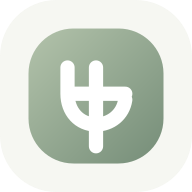
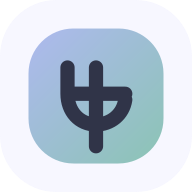
style: align PWA and Android with pastel brand

diff --git a/mobile-shell/index.html b/mobile-shell/index.html
@@ -3,7 +3,7 @@
   <head>
     <meta charset="UTF-8" />
     <meta name="viewport" content="width=device-width, initial-scale=1, viewport-fit=cover" />
-    <meta name="theme-color" content="#f4f1ed" />
+    <meta name="theme-color" content="#f7f7ff" />
     <title>همراه آفلاین</title>
     <style>
       @font-face {
@@ -16,21 +16,21 @@
       :root {
         color-scheme: light dark;
         font-family: Vazirmatn, Tahoma, sans-serif;
-        --bg: #f4f1ed;
-        --surface: #fffdfa;
-        --surface-soft: #f8f5f1;
-        --text: #27312b;
-        --muted: #657168;
-        --border: #dbe2db;
-        --primary: #607563;
-        --primary-soft: #deeadf;
-        --urgent: #a6535a;
-        --urgent-soft: #f5dfe1;
-        --important: #8a642f;
-        --important-soft: #f4e8d3;
-        --normal: #526b82;
-        --normal-soft: #e0eaf2;
-        --shadow: 0 18px 55px rgba(48, 63, 52, 0.1);
+        --bg: #f7f7ff;
+        --surface: #ffffff;
+        --surface-soft: #f8f8ff;
+        --text: #303448;
+        --muted: #687086;
+        --border: #e1e4f1;
+        --primary: #5c70b4;
+        --primary-soft: #ecefff;
+        --urgent: #a75567;
+        --urgent-soft: #ffe7ed;
+        --important: #816826;
+        --important-soft: #fff3cd;
+        --normal: #54718c;
+        --normal-soft: #e9f5ff;
+        --shadow: 0 20px 58px rgba(79, 85, 127, 0.12);
       }
 
       * { box-sizing: border-box; }
@@ -83,16 +83,16 @@
 
       @media (prefers-color-scheme: dark) {
         :root {
-          --bg: #141a16;
-          --surface: #1d2520;
-          --surface-soft: #232d27;
-          --text: #edf2ed;
-          --muted: #aebbb2;
-          --border: #38433b;
-          --primary: #a9c0ad;
-          --primary-soft: #2c3b30;
-          --urgent: #f2b3b8;
-          --urgent-soft: #4a2b30;
+          --bg: #13151f;
+          --surface: #1c1e2a;
+          --surface-soft: #242735;
+          --text: #eff0f8;
+          --muted: #b2b6c9;
+          --border: #393d50;
+          --primary: #9cabe6;
+          --primary-soft: #2c324d;
+          --urgent: #efafbf;
+          --urgent-soft: #40272f;
           --important: #e7c99a;
           --important-soft: #483a27;
           --normal: #b5d1e7;
@@ -247,7 +247,7 @@
               channelId,
               sound: "urgent_alarm.wav",
               smallIcon: "ic_stat_hamrah",
-              iconColor: "#657966",
+              iconColor: "#5C70B4",
               autoCancel: true,
               schedule: { at, allowWhileIdle: true },
               extra: { owner: "hamrah-offline-preview", kind },

diff --git a/public/sw.js b/public/sw.js
@@ -1,10 +1,10 @@
 self.addEventListener("install", (event) => {
-  event.waitUntil(caches.open("hamrah-shell-v2").then((cache) => cache.addAll(["/", "/manifest.webmanifest", "/icon.svg", "/icon-192.png", "/icon-512.png"])));
+  event.waitUntil(caches.open("hamrah-shell-v3").then((cache) => cache.addAll(["/", "/manifest.webmanifest", "/icon.svg", "/icon-192.png", "/icon-512.png"])));
   self.skipWaiting();
 });
 
 self.addEventListener("activate", (event) => {
-  event.waitUntil(caches.keys().then((keys) => Promise.all(keys.filter((key) => key.startsWith("hamrah-shell-") && key !== "hamrah-shell-v2").map((key) => caches.delete(key)))));
+  event.waitUntil(caches.keys().then((keys) => Promise.all(keys.filter((key) => key.startsWith("hamrah-shell-") && key !== "hamrah-shell-v3").map((key) => caches.delete(key)))));
   self.clients.claim();
 });
 
@@ -12,7 +12,7 @@ self.addEventListener("fetch", (event) => {
   const request = event.request;
   if (request.method !== "GET" || new URL(request.url).origin !== self.location.origin || new URL(request.url).pathname.startsWith("/api/")) return;
   event.respondWith(fetch(request).then((response) => {
-    if (response.ok) caches.open("hamrah-shell-v2").then((cache) => cache.put(request, response.clone()));
+    if (response.ok) caches.open("hamrah-shell-v3").then((cache) => cache.put(request, response.clone()));
     return response;
   }).catch(async () => (await caches.match(request)) || (request.mode === "navigate" ? caches.match("/") : Response.error())));
 });

diff --git a/src/app/global-error.tsx b/src/app/global-error.tsx
@@ -1,8 +1,8 @@
 "use client";
 
-const pageStyle = { minHeight: "100vh", display: "grid", placeItems: "center", padding: "24px", background: "#f6f7f2", color: "#26312c", fontFamily: "Vazirmatn, Tahoma, Arial, sans-serif", direction: "rtl" as const };
-const cardStyle = { width: "min(100%, 520px)", padding: "32px", border: "1px solid #dfe5dc", borderRadius: "24px", background: "#fff", boxShadow: "0 18px 50px rgba(47, 62, 51, 0.1)", textAlign: "right" as const };
-const buttonStyle = { minHeight: "46px", padding: "10px 18px", border: 0, borderRadius: "14px", background: "#748d76", color: "#fff", font: "inherit", cursor: "pointer" };
+const pageStyle = { minHeight: "100vh", display: "grid", placeItems: "center", padding: "24px", background: "radial-gradient(circle at 18% 18%, #eee9ff, transparent 34%), radial-gradient(circle at 82% 82%, #e4f7ee, transparent 34%), #f7f7ff", color: "#303448", fontFamily: "Vazirmatn, Tahoma, Arial, sans-serif", direction: "rtl" as const };
+const cardStyle = { width: "min(100%, 520px)", padding: "32px", border: "1px solid #e1e4f1", borderRadius: "24px", background: "rgba(255, 255, 255, 0.92)", boxShadow: "0 24px 65px rgba(79, 85, 127, 0.14)", textAlign: "right" as const };
+const buttonStyle = { minHeight: "46px", padding: "10px 18px", border: 0, borderRadius: "14px", background: "#5c70b4", color: "#fff", font: "inherit", fontWeight: 680, cursor: "pointer" };
 
 export default function GlobalError({ retry }: { retry: () => void }) {
   return (

diff --git a/src/lib/brand-assets.test.ts b/src/lib/brand-assets.test.ts
@@ -1,0 +1,29 @@
+import { readFileSync } from "node:fs";
+import { resolve } from "node:path";
+import { describe, expect, it } from "vitest";
+
+function readProjectFile(path: string) {
+  return readFileSync(resolve(process.cwd(), path), "utf8");
+}
+
+describe("pastel brand assets", () => {
+  it("keeps PWA and Android shell colors aligned with the interface", () => {
+    const manifest = JSON.parse(readProjectFile("public/manifest.webmanifest"));
+    const capacitor = readProjectFile("capacitor.config.ts");
+    const mobileShell = readProjectFile("mobile-shell/index.html");
+
+    expect(manifest.background_color).toBe("#f7f7ff");
+    expect(manifest.theme_color).toBe("#5c70b4");
+    expect(capacitor).toContain('backgroundColor: "#F7F7FF"');
+    expect(capacitor).toContain('iconColor: "#5C70B4"');
+    expect(mobileShell).toContain("--primary: #5c70b4");
+    expect(mobileShell).toContain('iconColor: "#5C70B4"');
+  });
+
+  it("uses the pastel icon palette in generated web assets", () => {
+    const icon = readProjectFile("public/icon.svg");
+    expect(icon).toContain("#AEB9EF");
+    expect(icon).toContain("#8BC4B4");
+    expect(icon).toContain("#303448");
+  });
+});

diff --git a/capacitor.config.ts b/capacitor.config.ts
@@ -22,16 +22,16 @@ const config: CapacitorConfig = {
   appId: "ir.wealthos.personalagent",
   appName: "همراه",
   webDir: "mobile-shell",
-  backgroundColor: "#F6F3EF",
+  backgroundColor: "#F7F7FF",
   loggingBehavior: developmentServerUrl ? "debug" : "production",
   android: {
-    backgroundColor: "#F6F3EF",
+    backgroundColor: "#F7F7FF",
     allowMixedContent: false,
   },
   plugins: {
     LocalNotifications: {
       smallIcon: "ic_stat_hamrah",
-      iconColor: "#657966",
+      iconColor: "#5C70B4",
     },
   },
   ...(developmentServerUrl ? {

diff --git a/src/app/layout.tsx b/src/app/layout.tsx
@@ -16,8 +16,8 @@ export const metadata: Metadata = {
 
 export const viewport: Viewport = {
   themeColor: [
-    { media: "(prefers-color-scheme: light)", color: "#748d76" },
-    { media: "(prefers-color-scheme: dark)", color: "#121814" },
+    { media: "(prefers-color-scheme: light)", color: "#5c70b4" },
+    { media: "(prefers-color-scheme: dark)", color: "#13151f" },
   ],
 };
 

diff --git a/src/lib/native-escalations.ts b/src/lib/native-escalations.ts
@@ -71,7 +71,7 @@ export async function syncNativeEscalationAlarms(alarms: NativeEscalationAlarm[]
     channelId,
     sound: "urgent_alarm.wav",
     smallIcon: "ic_stat_hamrah",
-    iconColor: "#657966",
+    iconColor: "#5C70B4",
     group: "hamrah-urgent-tasks",
     autoCancel: true,
     schedule: {

diff --git a/PROJECT_STATUS.md b/PROJECT_STATUS.md
@@ -9,9 +9,9 @@
 - پیشرفت نسخه وب/PWA: **۱۰۰٪**
 - پیشرفت کل محدوده پیش از Production شامل Android و هشدار پیشرفته: **۱۰۰٪**
 - پیشرفت کل تا انتشار عمومی: **۹۶٪**
-- مرحله فعلی: بازطراحی پالت روشن پاستیلی پس از کاندید انتشار سوم تکمیل و روی نسخه محلی آزمایش شده است
-- آخرین مرحله کامل: پالت یاسی، آبی آسمانی، سبز نعنایی و هلویی با سطوح شیشهای روشن، کنتراست استاندارد و حالت تاریک هماهنگ شد
-- قدم بعدی: انتقال کنترلشده Production و سپس امضای خصوصی Android؛ هر دو فقط پس از تأیید نهایی مالک و پس از همراهکردن بازطراحی جدید در کاندید انتشار بعدی
+- مرحله فعلی: رابط، PWA، پوسته آفلاین، آیکون، Splash و اعلان Android با پالت روشن پاستیلی یکپارچه و بهصورت محلی تأیید شدهاند
+- آخرین مرحله کامل: کاندید انتشار چهارم روی Staging نصب شد و ثبتنام، CRUD، دستیار، Reminder و هشدار Android بهصورت واقعی موفق بودند؛ سپس رنگهای پنهان بومی نیز برای کاندید نهایی هماهنگ شدند
+- قدم بعدی: ساخت و نصب کاندید نهایی شامل آیکون و Splash تازه؛ پس از آن فقط انتقال Production و امضای خصوصی Android با تأیید مالک باقی میماند
 - انتقال دامنه: عمداً متوقف است؛ دامنه فعلاً صفحه خالی `Index of /` از LiteSpeed را نشان میدهد و هنوز به برنامه وصل نیست
 
 محیط لوکال و دیتابیس موجود بدون حذف دادهها آماده شدهاند. بهدلیل اشغالبودن پورت ۳۰۰۰ توسط پروژهای دیگر، نسخه فعلی Personal Agent روی `http://localhost:3001` اجرا میشود.
@@ -61,12 +61,12 @@ flowchart LR
 
 - Type Check: موفق
 - Lint: موفق
-- تست خودکار: ۳۰ تست موفق
+- تست خودکار: ۳۲ تست موفق
 - Build نهایی: موفق
 - سلامت API و اتصال دیتابیس: موفق
 - آزمایش واقعی مرورگر: داشبورد، کارها، جلسات، تقویم، دستیار، تنظیمات، ورود، حالت ۴۰۴، پنجرهها، حذف دومرحلهای و بازگشت تغییرات در دسکتاپ و نمای موبایل ۳۹۰×۸۴۴ روی `localhost:3001` بدون سرریز افقی یا کنترل لمسی کوچک اجرا شد؛ پس از بازطراحی رنگ نیز داشبورد، فرم برنامه و صفحه ورود دوباره بررسی شدند
-- PWA: Manifest کامل، آیکونهای استاندارد نصب، Apple Touch Icon و Service Worker نسخه دوم فعال هستند
-- طراحی: فونت وزیرمتن از داخل پروژه بارگذاری میشود؛ عنوان ۲۷ تا ۳۲ پیکسل، متن اصلی ۱۵ پیکسل و کنترلهای لمسی حداقل ۳۸ پیکسل هستند. پالت روشن جدید از یاسی، آبی، نعنایی و هلویی استفاده میکند؛ نقاط عملیاتی برای خوانایی عمیقترند و در بررسی واقعی مرورگر سرریز افقی یا کنترل کوچک مشاهده نشد
+- PWA: Manifest کامل، آیکونهای استاندارد نصب، Apple Touch Icon و Service Worker نسخه سوم با Cache تازه فعال هستند
+- طراحی: فونت وزیرمتن از داخل پروژه بارگذاری میشود؛ عنوان ۲۷ تا ۳۲ پیکسل، متن اصلی ۱۵ پیکسل و کنترلهای لمسی حداقل ۳۸ پیکسل هستند. پالت روشن جدید از یاسی، آبی، نعنایی و هلویی استفاده میکند؛ همین پالت اکنون در صفحه خطا، Manifest، پوسته آفلاین، آیکون، Splash و اعلان Android نیز یکسان است
 - امنیت وابستگیها: `pnpm audit --prod` بدون آسیبپذیری شناختهشده
 - امنیت برنامه: Rate Limit برای Agent و عملیات تغییردهنده، خطاهای فارسی قابلبازیابی، اعتبارسنجی حذف Deadline و لغو خودکار یادآوری کارهای انجامشده یا لغوشده آزمایش شد
 - Backup: Snapshot تازه `hamrah-2026-09-01T05-45-41-179Z.db` با `VACUUM INTO` ساخته شد و `integrity_check = ok` بود
@@ -91,6 +91,9 @@ flowchart LR
 - محیط آزمایشی سرور: RC3 در `/home/wealthos_dev/.staging/personal-agent/releases/9885ac6` روی پورت داخلی ۳۰۱۰ فعال است؛ ثبتنام، نشست، تنظیمات، Task، Meeting، Agent محلی، اعلان، Reminder و Escalation بهصورت واقعی موفق بودند و داده آزمایشی پاک شد
[1 lines of base64/hex data omitted]
 - Production: پردازش قبلی Commit `b50c3b6` روی پورت داخلی ۳۰۱۱، دیتابیس و Backup آن سالم و بدون تغییر باقی ماندهاند
+- کاندید انتشار چهارم: [اجرای موفق شماره ۴](https://github.com/tparkhondeh/personalAgent/actions/runs/33519135966) از Commit `4cd53d42938eedef7d6161e05da45e1117a6fbfe` ساخته شد؛ ۳۰ تست، Type Check، Lint، Build، Audit، Migration، Scheduler، بسته سرور و APK متصل موفق بودند
[1 lines of base64/hex data omitted]
+- Android یکپارچه محلی: Lint، تست واحد، `assembleDebug` و `assembleRelease` موفق شدند؛ APK متصل محلی رنگ Splash و اعلان تازه و مقصد امن دامنه را تأیید کرد. خروجی Release همچنان عمداً unsigned است
 
 ## وابستگیهای اختیاری و معوق
 
